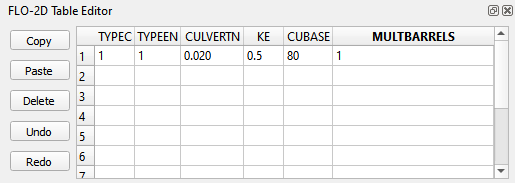
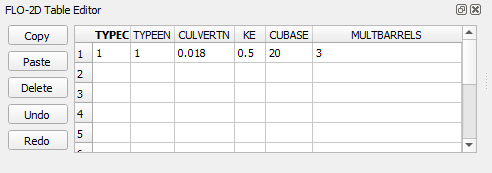
ch to ch done

Changed region(s): [[0.0, 0.1445, 1.0, 0.9827], [0.0, 0.0289, 0.2134, 0.0867], [0.9146, 0.0, 1.0, 0.0867]]

diff --git a/source/flo-2d_plugin/user_manual/widgets/hydraulic-structure-editor/Hydraulic Structure Editor.rst b/source/flo-2d_plugin/user_manual/widgets/hydraulic-structure-editor/Hydraulic Structure Editor.rst
@@ -482,19 +482,48 @@ This structure will simulate discharge through a box culvert.
 This example has a box culvert that is longer than the grid element.
 The channel segments are split up to allow for the width of the roadway.
 
+.. image:: ../../img/Hydraulic-Structure-Editor/hydex007.png
 
-.. image:: ../../img/Hydraulic-Structure-Editor/addchanculv.gif
+When setting up a channel with a culvert, it is important to set the cross sections so they can 
+represent the expansion and contraction of the channel leading up to and away from the channel.
 
+.. image:: ../../img/Hydraulic-Structure-Editor/hydex006.png
 
+- This structure is a channel to channel culvert that uses a culvert equation.
+- It has a headwater control so the Tailwater switch is set to "0" or No tailwater effect.  
+- It does not have a reference elevation for headwater so the flow starts at the upstream channel invert elevation.  
+- It is a culvert equation so the culvert length is 90 ft and the box height is 8 ft.
 
 .. image:: ../../img/Hydraulic-Structure-Editor/Hydrau002.png
 
-Table
+The remaining culvert parameters are defined in the Table Editor.
 
 .. image:: ../../img/Hydraulic-Structure-Editor/Hydrau006.png
 
+- **TYPEC** =  1 (box) 
+- **TYPEEN** = 1 (wingwall flare)
+- **CULVERTN** = 0.018
+- **KE** 0.5 (wingwall and square edge)
+- **CUBASE** = 20 ft (width)
+- **MULTBARRELS** = 3 (multi-barrel)
 
-   
+**Culvert Type Switch**
+
+The culvert shape is defined using the `TYPEC(I)` variable:
+
+- ``1`` = Box culvert
+- ``2`` = Pipe culvert
+
+**Box Entrance Types (TYPEEN)**
+
+- ``1`` – Wingwall flare 30° to 75°
+- ``2`` – Wingwall flare 90° or 15°
+- ``3`` – Wingwall flare 0°
+
+**Box Losses**
+
+.. image:: ../../img/Hydraulic-Structure-Editor/hydex005.png
+
 Floodplain to Channel Structure
 ~~~~~~~~~~~~~~~~~~~~~~~~~~~~~~~~~~~~~~
 
